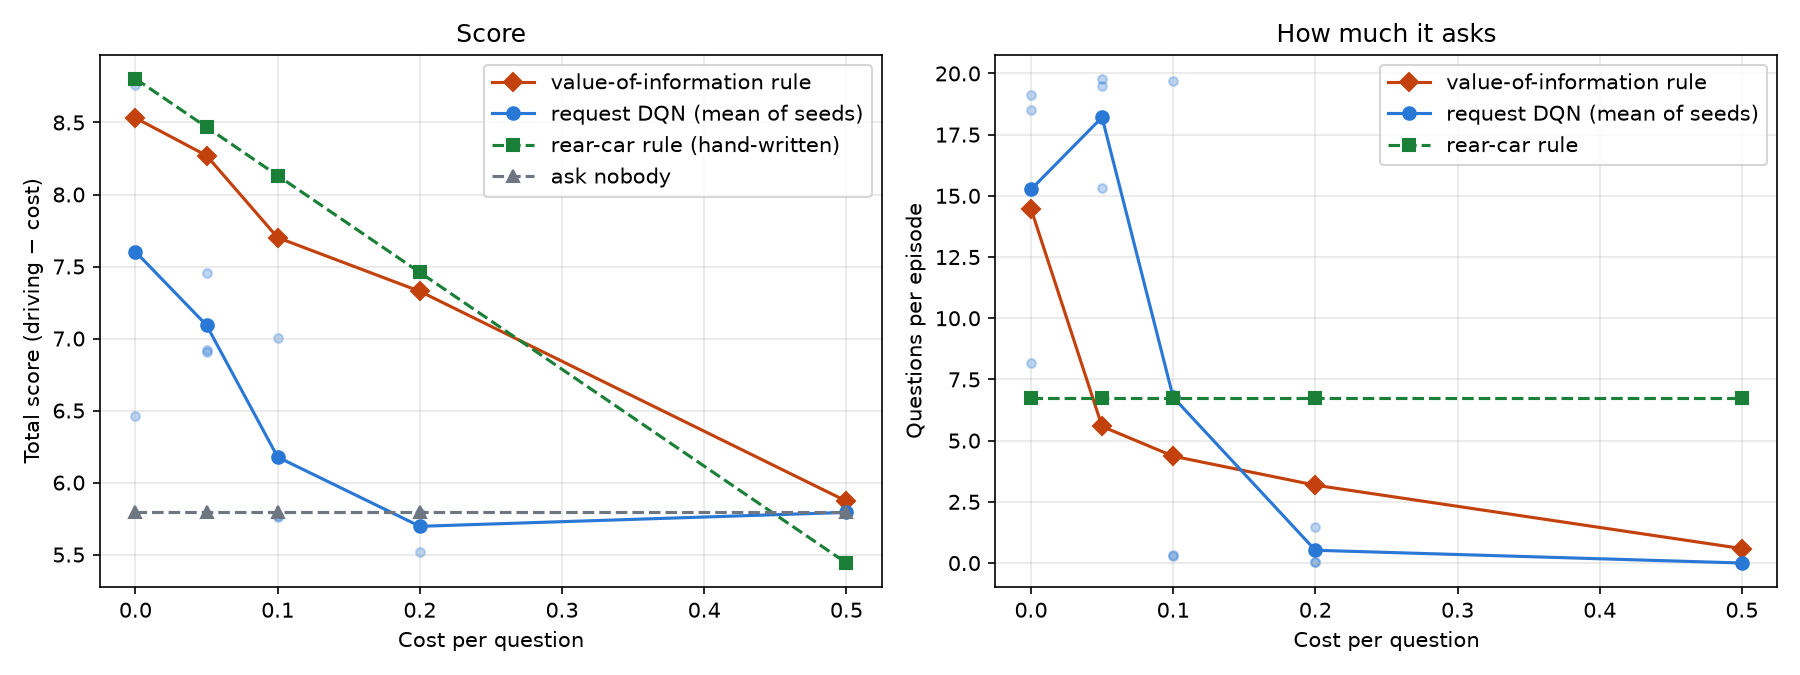
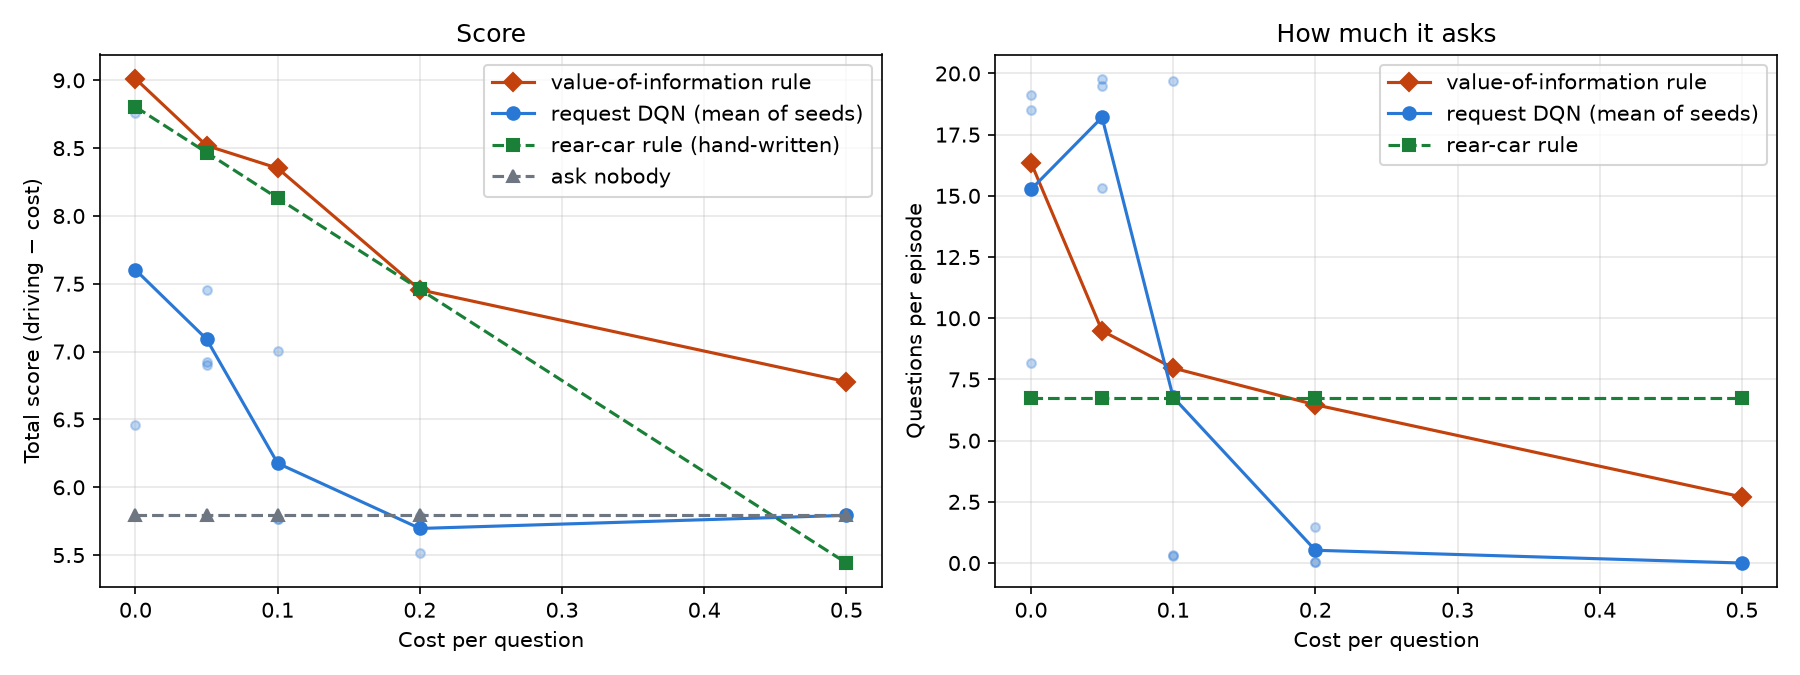
Fix the value-of-information rule's baseline; it now matches the hand-written rule
- Replaying the rule's 8 crashes showed 6 merges it didn't ask about: with
  either answer the planner would have waited, but with no message it
  merged. The value of asking is now measured against the move the ego
  actually makes without asking.
- Results on 200 test roads: 8.52 at cost 0.05 (hand-written rule 8.47);
  matches or beats that rule at every cost from 0 to 0.5 (6.78 vs 5.44 at
  0.5), asks 16.4 -> 2.7 questions as cost rises, crashes 2-4%.
- Docs, cost-sweep plot, README, and the timeline graphic and page updated
  with the newer steps.

diff --git a/docs/timeline.html b/docs/timeline.html
@@ -158,7 +158,7 @@
         </dl></div></details></li>
   </ol>
 
-  <div class="phase">PHASE 2 · Forced merge with hidden yielding / aggressive drivers <small>· Nov 15</small></div>
+  <div class="phase">PHASE 2 · Forced merge with hidden yielding / aggressive drivers <small>· Nov 15 – Nov 17</small></div>
   <ol>
     <li><div class="date"></div><div class="dot good"></div>
       <details><summary><span class="title">Merge scenario + information check</span>
@@ -214,20 +214,57 @@
         </dl></div></details></li>
 
     <li><div class="date"></div><div class="dot good"></div>
-      <details class="now" open><summary><span class="title">Request DQN, run 3: the first one that learned to ask</span><span class="badge">NOW</span>
+      <details><summary><span class="title">Request DQN, run 3: the first one that learned to ask</span>
         <span class="line2">Practise on target-lane cars, look 3 steps ahead · <span class="result good">6.77 vs 5.79, crashes 18% → 2%</span></span></summary>
         <div class="body"><dl>
           <dt>What changed</dt><dd>While practising, it mostly asks cars in the lane it wants to enter, and it learns from 3-step returns so the later payoff reaches the question. 3,000 episodes.</dd>
           <dt>Result</dt><dd>Beats asking nobody by +0.98 (about 3 standard errors), cuts crashes from 18% to 2%, and sends 57% of its questions to the rear car (random: 12%).</dd>
-          <dt>Still missing</dt><dd>It asks twice as often as the rear-car rule (13.5 vs 6.7 per episode) and merges later (7.8 s vs 4.9 s). Its training score was still rising.</dd>
+          <dt>Still missing</dt><dd>It asks twice as often as the rear-car rule (13.5 vs 6.7 per episode) and merges later (7.8 s vs 4.9 s).</dd>
         </dl><div class="chips"><span class="chip">DQN 6.77</span><span class="chip">ask nobody 5.79</span><span class="chip">rear rule 8.47</span><span class="chip">crashes 2%</span></div></div></details></li>
 
-    <li><div class="date">Next</div><div class="dot neutral"></div>
-      <details class="next"><summary><span class="title">Close the gap to the rear-car rule (8.47)</span>
-        <span class="line2">Train longer · try different question costs · back to a 4-lane highway</span></summary>
+    <li><div class="date">Nov 16</div><div class="dot bad"></div>
+      <details><summary><span class="title">Longer training, other seeds</span>
+        <span class="line2">6,000 episodes: 6.28 · other seeds: 5.96–6.87 · <span class="result bad">results depend a lot on luck</span></span></summary>
         <div class="body"><dl>
-          <dt>Train longer</dt><dd>The training score was still rising at 3,000 episodes.</dd>
-          <dt>Cost sweep</dt><dd>Train at several question costs and check that the DQN asks less when questions are expensive.</dd>
+          <dt>What we tried</dt><dd>Run 3's setup for 6,000 episodes; the same setup with two other training seeds; and steadier settings (half the learning rate, slower target updates).</dd>
+          <dt>Result</dt><dd>6,000 episodes did worse (6.28, crashes 13%). The other seeds scored 6.87 and 5.96. The steadier settings scored 6.11.</dd>
+          <dt>Lesson</dt><dd>The training score swings a lot, and the saved model was picked from a noisy training average.</dd>
+        </dl></div></details></li>
+
+    <li><div class="date">Nov 16</div><div class="dot good"></div>
+      <details><summary><span class="title">Pick the saved DQN on validation roads</span>
+        <span class="line2">Same training, better choice of model · <span class="result good">3-run average 6.53 → 7.09</span></span></summary>
+        <div class="body"><dl>
+          <dt>What changed</dt><dd>Every 250 episodes the DQN drives 100 fixed validation roads without exploring, and the best-scoring model is kept.</dd>
+          <dt>Result</dt><dd>Seeds 0 / 1 / 2: 6.92 / 7.45 / 6.90. Every run now beats asking nobody, crashes 1–4%.</dd>
+          <dt>Still missing</dt><dd>It asks about 18 times per episode, against 6.7 for the rear-car rule.</dd>
+        </dl><div class="chips"><span class="chip">average 7.09</span><span class="chip">crashes 1–4%</span></div></div></details></li>
+
+    <li><div class="date">Nov 17</div><div class="dot bad"></div>
+      <details><summary><span class="title">Where the DQN asks + cost sweep</span>
+        <span class="line2">Wrong car at ~half the key moments · <span class="result bad">asks 15–20 times or never, whatever the cost</span></span></summary>
+        <div class="body"><dl>
+          <dt>Where it asks</dt><dd>At the moments where the rear car's answer changes the move, it asks the rear car only 36–63% of the time, often the front car instead. About half its questions come after the merge.</dd>
+          <dt>Cost sweep</dt><dd>Trained at costs 0, 0.1, 0.2 and 0.5 (3 seeds each). Each DQN asks almost every step or never; from cost 0.2 every run stops asking, though asking still pays.</dd>
+          <dt>Lesson</dt><dd>One useful question is a small signal in a lot of noise, so the DQN never learns <em>when</em> to ask.</dd>
+        </dl></div></details></li>
+
+    <li><div class="date">Nov 17</div><div class="dot good"></div>
+      <details class="now" open><summary><span class="title">Value-of-information rule: ask only if it changes the move</span><span class="badge">NOW</span>
+        <span class="line2">The planner imagines both answers, no training · <span class="result good">8.52, matches the hand-written rule at every cost</span></span></summary>
+        <div class="body"><dl>
+          <dt>How it works</dt><dd>For each car in the target lane, the planner imagines both answers ("yielding" and "aggressive"). Asking is worth how much better the ego could drive knowing the answer than with the move it would make without asking. It asks the most valuable car if that beats the cost.</dd>
+          <dt>Result</dt><dd>At cost 0.05: 8.52 against 8.47 for the hand-written rule. Across costs 0 to 0.5 it matches or beats that rule everywhere (6.78 vs 5.44 at 0.5) and asks less as cost rises: 16.4 → 2.7 questions per episode.</dd>
+          <dt>Fix along the way</dt><dd>The first version compared against the wrong baseline and merged without asking in 6 of its 8 crashes. Comparing with the move the ego actually makes without asking fixed that.</dd>
+          <dt>Still missing</dt><dd>It crashes 2–4%; the hand-written rule crashes 0%.</dd>
+        </dl><div class="chips"><span class="chip">8.52 at cost 0.05</span><span class="chip">rear rule 8.47</span><span class="chip">DQN 7.09</span><span class="chip">no training</span></div></div></details></li>
+
+    <li><div class="date">Next</div><div class="dot neutral"></div>
+      <details class="next"><summary><span class="title">Teach the DQN from the rule</span>
+        <span class="line2">Use the rule as a teacher · look at the last 2–4% crashes · back to a 4-lane highway</span></summary>
+        <div class="body"><dl>
+          <dt>Teacher</dt><dd>Train the DQN to copy the rule's choices, giving a fast learned policy without the noisy-reward problem.</dd>
+          <dt>Crashes</dt><dd>Look at the rule's remaining 2–4% crashes.</dd>
           <dt>4 lanes</dt><dd>The same hidden drivers on a busier highway, where it's less obvious whom to ask.</dd>
         </dl></div></details></li>
   </ol>

diff --git a/src/cooperative_driving/policies/voi.py b/src/cooperative_driving/policies/voi.py
@@ -7,14 +7,21 @@ For a car k, with P(yielding) = 0.5:
 
     know_answer  = 0.5 * best value if k says "yielding"
                  + 0.5 * best value if k says "aggressive"
-    dont_know    = best value of one action chosen without the answer
-                   (the action with the best 0.5/0.5 average)
+    dont_know    = 0.5/0.5 average value of the move the planner makes
+                   with NO message (what the ego actually does if it
+                   doesn't ask), judged with each possible answer
     value of asking k = know_answer - dont_know
 
-It is 0 when the same move is best whatever the car answers (after the
-merge, or for a car whose type doesn't matter, like the one in front), and
-positive when the answer would change the move. The rule asks the car with
-the highest value, if that value is larger than the cost of a question.
+It is 0 when asking wouldn't change the move the ego makes anyway (after
+the merge, or for a car whose type doesn't matter, like the one in front),
+and positive when the answer would change it. The rule asks the car with the
+highest value, if that value is larger than the cost of a question.
+
+Why compare with the no-message move: the planner without a message can be
+bolder than with either answer. Before this, the rule compared with the
+best single move for the averaged answers, so when both answers said "wait"
+it valued asking at 0 while the ego, not asking, merged anyway. That caused
+6 of its 8 crashes on the test roads.
 
 A message has four values, but only the driver type is imagined both ways;
 the other three are filled with what platoon cars almost always say
@@ -61,7 +68,8 @@ class AskValueOfInformation:
         if_aggressive = torch.tensor(self.planner.action_values_batched(
             self.observation, imagined_message(slot, AGGRESSIVE_CODE)))
         know_answer = self.p * if_yielding.max() + (1 - self.p) * if_aggressive.max()
-        dont_know = (self.p * if_yielding + (1 - self.p) * if_aggressive).max()
+        move = self.move_without_asking
+        dont_know = self.p * if_yielding[move] + (1 - self.p) * if_aggressive[move]
         return float(know_answer - dont_know)
 
     def target_lane_slots(self, environment, observation):
@@ -73,6 +81,8 @@ class AskValueOfInformation:
 
     def slots(self, environment, observation):
         self.observation = observation
+        # The move the ego makes if it asks nobody (the same planner that drives).
+        self.move_without_asking = self.planner.plan(observation, None)
         values = {slot: self.value_of_asking(slot) for slot in self.target_lane_slots(environment, observation)}
         if not values:
             return []

diff --git a/docs/merge_scenario.md b/docs/merge_scenario.md
@@ -145,16 +145,16 @@ DQNs in `results/merge_policies/cost0.05_dqn_val_selection.json`):
 | DQN, training seed 1 | 7.45 | 3% | 94% | 19.8 | 71% |
 | DQN, training seed 2 | 6.90 | 4% | 94% | 19.5 | 28% |
 | **DQN, average of 3 runs** | **7.09** | 3% | 94% | 18.2 | 53% |
-| **Value-of-information rule** (no learning) | **8.27** | 4% | 92% | **5.6** | 68% |
+| **Value-of-information rule** (no learning) | **8.52** | 4% | 95% | 9.5 | 58% |
 
 - **The planner uses messages well:** the rear-car rule gains +2.68 over
   asking nobody, which is close to the true value (+2.7).
-- **The value-of-information rule is the best learned-model policy:** it
-  uses only MLPx and the planner, is within noise of the hand-written rule
-  (8.27 ± 0.29 vs 8.47), and asks less (5.6 vs 6.7 questions). See below.
+- **The value-of-information rule matches the hand-written rule:** it uses
+  only MLPx and the planner, and scores 8.52 ± 0.29 against 8.47. Across
+  costs it matches or beats the rule everywhere (see the cost sweep below).
 - **The DQN learned to ask, but poorly:** every run beats asking nobody, by
-  +1.30 on average, but it asks about three times as often as needed and is
-  1.2 below the value-of-information rule.
+  +1.30 on average, but it asks about twice as often as the value-of-information
+  rule and is 1.4 below it.
 - The current DQN (`checkpoints/DQN/best.pt`) is training seed 0: it had the
   best validation score (7.98). It was not chosen by test score.
 
@@ -162,13 +162,24 @@ DQNs in `results/merge_policies/cost0.05_dqn_val_selection.json`):
 For each car in the target lane, the planner imagines both answers
 ("yielding" and "aggressive"; the other message values are filled with what
 platoon cars almost always say). The value of asking is how much better the
-ego could drive if it knew the answer than if it had to pick one move
-without it. That's 0 when the same move is best either way (after the merge,
-or for the front car) and positive when the answer would change the move.
-The rule asks the most valuable car, if that value beats the question's
-cost. It needs no training. To keep it fast, the planner got a batched
-version of its value calculation (`action_values_batched`, 17× faster, same
-best move in 368 of 368 test plans); the planner that drives is unchanged.
+ego could drive if it knew the answer than with the move it would make
+*without asking* (the planner's choice with no message), judged under both
+answers. That's 0 when asking wouldn't change what the ego does anyway
+(after the merge, or for the front car) and positive when either answer
+would change it. The rule asks the most valuable car, if that value beats
+the question's cost. It needs no training. To keep it fast, the planner got a
+batched version of its value calculation (`action_values_batched`, 17×
+faster, same best move in 368 of 368 test plans); the planner that drives is
+unchanged.
+
+*First version and its fix.* The first version compared knowing the answer
+with the best single move for the *averaged* answers, instead of with the
+move the ego actually makes without asking. It scored 8.27 at cost 0.05 with
+4–7% crashes. Replaying its 8 crashes showed that in 6 of them the planner
+would have waited with either answer, so asking looked worthless, but with
+no message it gambled and merged in front of an aggressive car 11–21 m
+behind. (The imagined messages matched the real ones, so the guessed values
+weren't the problem.) Comparing with the actual no-message move fixed this.
 
 **Where the DQN asks** (`scripts/check_dqn_requests.py`, same 200 test
 roads, results in `results/dqn_requests/`). A step is *decisive* when the
@@ -204,27 +215,27 @@ baselines' scores at each cost are their driving reward minus cost × questions.
 
 | Cost per question | Value-of-information rule | its questions / ep | its crashes | DQN total (mean, min–max) | DQN questions / ep | Ask nobody | Rear-car rule |
 | ---: | ---: | ---: | ---: | --- | ---: | ---: | ---: |
-| 0 | 8.53 | 14.5 | 5% | 7.60 (6.46–8.76) | 15.3 | 5.79 | 8.80 |
-| 0.05 | 8.27 | 5.6 | 4% | 7.09 (6.90–7.45) | 18.2 | 5.79 | 8.47 |
-| 0.1 | 7.70 | 4.4 | 6% | 6.18 (5.76–7.00) | 6.8 | 5.79 | 8.13 |
-| 0.2 | 7.33 | 3.2 | 7% | 5.70 (5.52–5.79) | 0.5 | 5.79 | 7.46 |
-| 0.5 | **5.87** | 0.6 | 14% | 5.79 (all three) | 0.0 | 5.79 | 5.44 |
+| 0 | **9.01** | 16.4 | 3% | 7.60 (6.46–8.76) | 15.3 | 5.79 | 8.80 |
+| 0.05 | **8.52** | 9.5 | 4% | 7.09 (6.90–7.45) | 18.2 | 5.79 | 8.47 |
+| 0.1 | **8.35** | 8.0 | 2% | 6.18 (5.76–7.00) | 6.8 | 5.79 | 8.13 |
+| 0.2 | **7.46** | 6.5 | 2% | 5.70 (5.52–5.79) | 0.5 | 5.79 | **7.46** |
+| 0.5 | **6.78** | 2.7 | 4% | 5.79 (all three) | 0.0 | 5.79 | 5.44 |
 
 (Each score has a standard error of about ±0.3.)
 
 **The value-of-information rule does what the DQN couldn't:**
 
-- **It asks less as questions get pricier, smoothly:** 14.5 → 5.6 → 4.4 →
-  3.2 → 0.6 questions per episode. No retraining, just a different cost.
-- **It beats the DQN at every cost** and asking nobody at every cost
-  (barely at 0.5).
-- **It asks the right car more as cost rises:** the share of its questions
-  going to the rear car grows from 48% to 97%.
-- **It's close to the hand-written rule** (0.13–0.43 below it up to cost 0.2,
-  within about 1–1.5 standard errors) and **beats it at 0.5**, where asking
-  the rear car every time no longer pays.
-- **Remaining gap:** it crashes 4–7% where the hand-written rule crashes 0%,
-  probably where MLPx's imagined values misjudge a merge.
+- **It asks less as questions get pricier, smoothly:** 16.4 → 9.5 → 8.0 →
+  6.5 → 2.7 questions per episode. No retraining, just a different cost.
+- **It matches or beats the hand-written rear-car rule at every cost:**
+  +0.21, +0.05, +0.22, 0.00 and +1.34. Up to cost 0.2 the differences are
+  within noise; at 0.5 it is clearly better, because it still asks when it
+  matters while asking every time no longer pays.
+- **It beats the DQN and asking nobody at every cost**, including 0.5
+  (6.78 vs 5.79), where the DQN gave up asking altogether.
+- **It aims better as cost rises:** the share of its questions going to the
+  rear car grows from 52% to 72%.
+- **Remaining gap:** it crashes 2–4% where the hand-written rule crashes 0%.
 
 **The DQN, by contrast:**
 
@@ -235,7 +246,8 @@ baselines' scores at each cost are their driving reward minus cost × questions.
 - **It gives up too early.** From cost 0.2 the DQN stops asking, though the
   rear-car rule is still worth +1.67 there. Asking the rear car stays worth it
   up to a cost of about 0.45 (where the rule's line crosses "ask nobody").
-- **Only at 0.5 is never asking right**, and there the DQN matches it.
+- **At 0.5 it never asks**, which ties with asking nobody, but asking at the
+  right moments still pays there (the value-of-information rule: 6.78).
 - **Even free questions aren't enough:** at cost 0 the DQN reaches 7.60
   against 8.80 for the rule, so the front/rear confusion costs more than
   the question cost does.
@@ -261,7 +273,8 @@ baselines' scores at each cost are their driving reward minus cost × questions.
 | **Validation selection** | Same 3 trainings; keep the model that scores best on 100 fixed validation roads instead of the training average | **6.92 / 7.45 / 6.90 (mean 7.09), crashes 1–4%** | Picking the model was a big part of the problem: same training, +0.56 on average and much less luck. Seed 0 becomes the current DQN |
 | Request check | Labelled each step decisive / not / after merge, and whom the DQN asked | Rear car at only 36–63% of decisive moments; ~half of questions after the merge | It confuses the rear and front car and hasn't learned *when* to ask |
 | Cost sweep | Costs 0, 0.05, 0.1, 0.2, 0.5, 3 seeds each | Asks ~15–20 times or never; stops asking from 0.2 though asking pays up to ~0.45 | All-or-nothing: it never learned to ask a few times at the right moments |
-| **Value-of-information rule** | No learning: the planner imagines both answers of each target-lane car and asks only if the answer could change the move | **8.27 at cost 0.05 with 5.6 questions; beats the DQN and asking nobody at every cost** | The world model itself knows when asking is worth it. Close to the hand-written rule, and asks less as cost rises |
+| Value-of-information rule, v1 | No learning: the planner imagines both answers of each target-lane car and asks only if the answer could change the move | 8.27 at cost 0.05 with 5.6 questions, crashes 4–7%; beats the DQN at every cost | The world model itself knows when asking is worth it, but 6 of 8 crashes were merges it didn't ask about |
+| **Value-of-information rule, v2** | Value of asking measured against the move the ego actually makes without asking | **8.52 at cost 0.05; matches or beats the hand-written rule at every cost, crashes 2–4%** | Comparing with the real no-message move fixes the gambling merges. Best request policy so far |
 
 ## 8. Where things are
 
@@ -277,9 +290,8 @@ baselines' scores at each cost are their driving reward minus cost × questions.
 
 ## 9. Next steps
 
-1. Close the value-of-information rule's crash gap (4–7% vs 0% for the
-   hand-written rule): look at the roads where it crashes and check whether
-   MLPx's imagined values were wrong there.
+1. Optional: look at the remaining 2–4% crashes of the value-of-information
+   rule (the hand-written rule has none).
 2. Use the value-of-information rule as a teacher for the DQN: train the DQN
    to copy its choices, giving a fast learned policy without the noisy
    reward problem.

diff --git a/README.md b/README.md
@@ -32,19 +32,19 @@ The environment, vehicles and messages are in
 | ask everyone | 2.03 | 0% | 152 |
 | rear-car rule (hand-written) | **8.47** | 0% | 6.7 |
 | request DQN (average of 3 training runs) | 7.09 | 3% | 18.2 |
-| **value-of-information rule** (no learning) | **8.27** | 4% | **5.6** |
+| **value-of-information rule** (no learning) | **8.52** | 4% | 9.5 |
 
 The value-of-information rule asks a car only when the planner, imagining
-both possible answers, would drive differently depending on the answer. It
-needs no training, comes close to the hand-written rule with fewer
-questions, and asks less as questions get more expensive. The request DQN
-learned to ask but asks far too often. Details: [docs/merge_scenario.md](docs/merge_scenario.md).
+both possible answers, would drive differently than it would without asking.
+It needs no training, matches or beats the hand-written rule at every
+question cost tested (0 to 0.5), and asks less as questions get more
+expensive. The request DQN learned to ask but asks far too often. Details: [docs/merge_scenario.md](docs/merge_scenario.md).
 
 ## Timeline
 
 Click the graphic for the interactive version, where each step opens to show what changed, the result, and what it taught us.
 
-<a href="https://yashkhairnar.github.io/Echo/timeline.html"><img src="docs/images/project_timeline.svg" width="100%" alt="Project timeline: highway experiments (Nov 5–14) where asking never helped, the turning point, then the merge scenario (Nov 15) where the world model learned to use messages and request DQN run 3 became the first policy that learned to ask."></a>
+<a href="https://yashkhairnar.github.io/Echo/timeline.html"><img src="docs/images/project_timeline.svg" width="100%" alt="Project timeline: highway experiments (Nov 5–14) where asking never helped, the turning point, then the merge scenario (Nov 15–17) where the world model learned to use messages, the request DQN learned to ask only partly, and a value-of-information rule built on the world model matched the hand-written rule."></a>
 
 ## Run it
 

diff --git a/docs/progress_log.md b/docs/progress_log.md
@@ -283,3 +283,17 @@
   0.13–0.43 of the hand-written rear-car rule up to cost 0.2 and above it at
   0.5. Crashes 4–7% (rule: 0%).
 - `evaluate_cost_sweep.py` now includes the rule and reuses saved results.
+
+## 2026-11-17 — Value-of-information rule, v2
+
+- Replayed the 8 crashes of the first version (cost 0.05). In 6, the ego
+  merged in front of an aggressive car 11–21 m behind without asking: with
+  either answer the planner would have waited, so asking looked worthless,
+  but with no message it gambled and merged. The imagined messages matched
+  the real ones.
+- Fix: measure the value of asking against the move the ego actually makes
+  without asking (the planner's no-message choice), judged under both answers.
+- On the 200 test roads (cost 0 / 0.05 / 0.1 / 0.2 / 0.5): 9.01 / 8.52 /
+  8.35 / 7.46 / 6.78 with 16.4 / 9.5 / 8.0 / 6.5 / 2.7 questions per episode,
+  crashes 2–4%. Matches or beats the hand-written rear-car rule at every cost
+  (clearly at 0.5: 6.78 vs 5.44) and beats the DQN and asking nobody everywhere.
